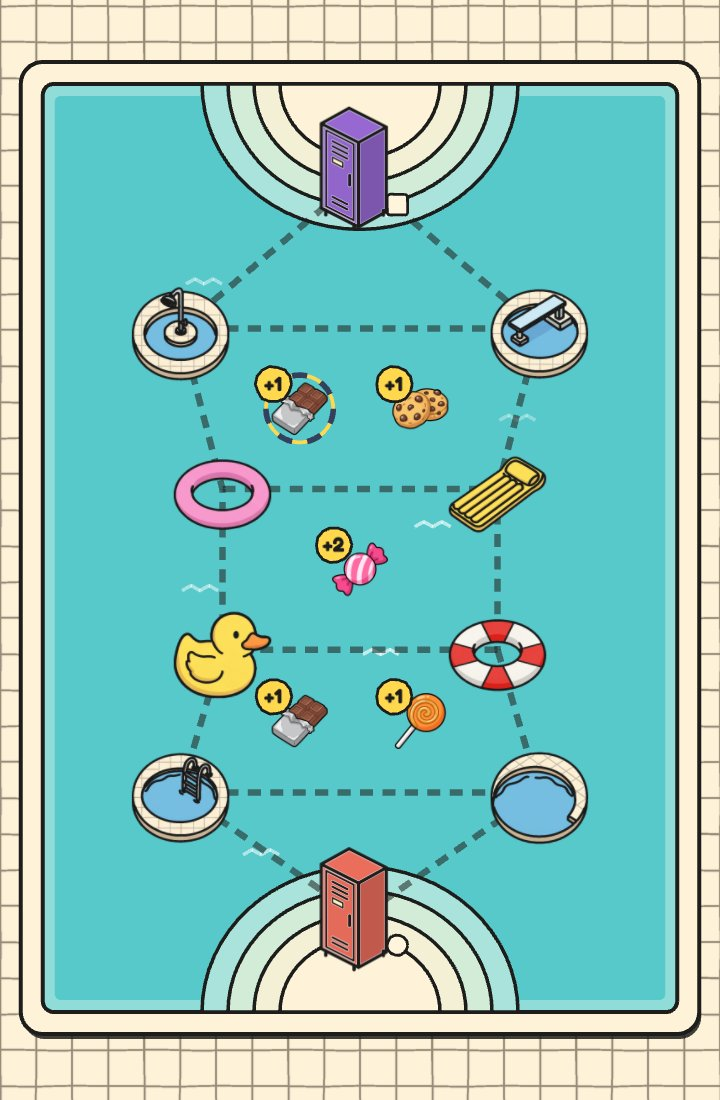
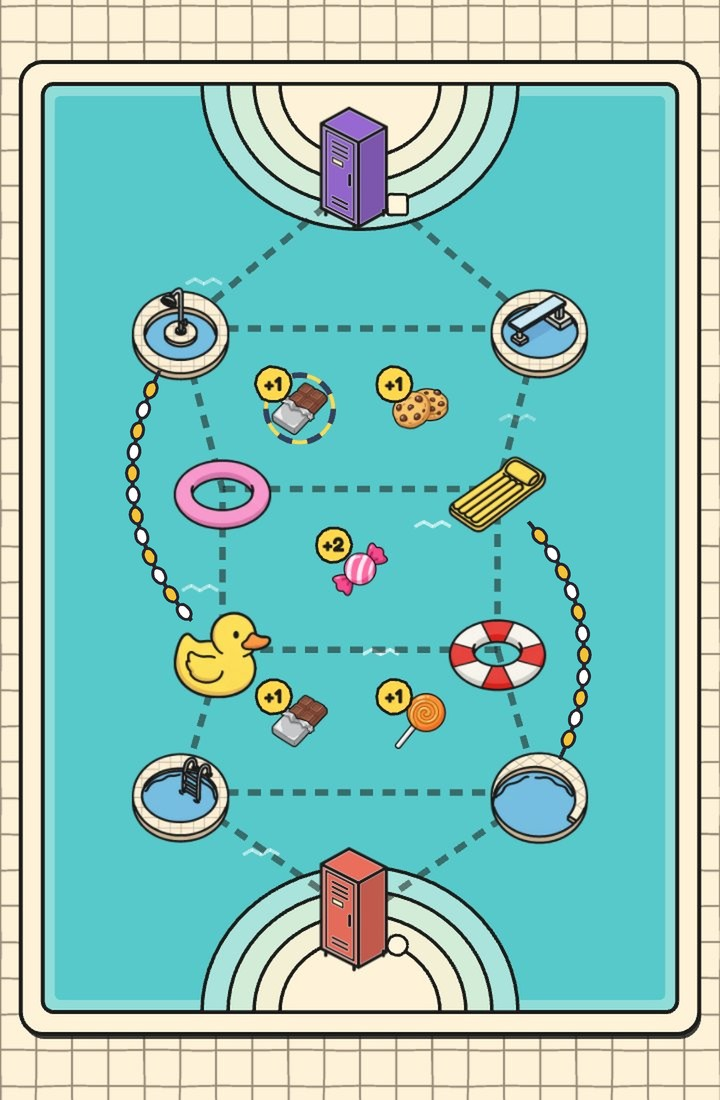
Piscine plus courte : deux raccourcis en lignes d'eau (DK.1–DK.2)
Allées douches→canard et bord→matelas, dessinées en courbe autour du
flotteur comme une ligne d'eau. Aperçu du carrousel, règle de la fiche,
paquet de l'arbitre mis à jour. scripts/audit.ts accepte --plan pour
tester un plan de cour modifié.

Claude-Session: https://claude.ai/code/session_01QntoMP3PeyhXLykr5kKxvo

Changed region(s): [[0.1528, 0.34, 0.275, 0.5873], [0.7333, 0.4636, 0.825, 0.68]]

diff --git a/src/game/scenes/PartieScene.ts b/src/game/scenes/PartieScene.ts
@@ -700,14 +700,134 @@ export class PartieScene extends Phaser.Scene {
     }
   }
 
+  /**
+   * Tracé d'une allée : un segment droit, sauf si elle frôle un autre îlot (raccourcis de la
+   * piscine, DK.1) ; elle s'arrondit alors vers l'extérieur de la cour pour le contourner.
+   */
+  private trajetAllee(a: string, b: string): Point[] {
+    const pa = this.pos(a);
+    const pb = this.pos(b);
+    const dx = pb.x - pa.x;
+    const dy = pb.y - pa.y;
+    const l2 = dx * dx + dy * dy;
+    const frole = this.cour.ilots.some((id) => {
+      if (id === a || id === b) return false;
+      const p = this.pos(id);
+      const t = ((p.x - pa.x) * dx + (p.y - pa.y) * dy) / l2;
+      if (t <= 0.05 || t >= 0.95) return false;
+      return Math.hypot(pa.x + t * dx - p.x, pa.y + t * dy - p.y) < 110;
+    });
+    if (!frole) return [pa, pb];
+    const milieu = { x: (pa.x + pb.x) / 2, y: (pa.y + pb.y) / 2 };
+    const centre = this.cour.ilots.reduce(
+      (c, id) => ({
+        x: c.x + this.pos(id).x / this.cour.ilots.length,
+        y: c.y + this.pos(id).y / this.cour.ilots.length,
+      }),
+      { x: 0, y: 0 },
+    );
+    const l = Math.sqrt(l2);
+    let nx = -dy / l;
+    let ny = dx / l;
+    if (nx * (milieu.x - centre.x) + ny * (milieu.y - centre.y) < 0) {
+      nx = -nx;
+      ny = -ny;
+    }
+    const bombe = l * 0.42;
+    const ctrl = { x: milieu.x + nx * bombe, y: milieu.y + ny * bombe };
+    const pts: Point[] = [];
+    for (let i = 0; i <= 32; i++) {
+      const t = i / 32;
+      const u = 1 - t;
+      pts.push({
+        x: u * u * pa.x + 2 * u * t * ctrl.x + t * t * pb.x,
+        y: u * u * pa.y + 2 * u * t * ctrl.y + t * t * pb.y,
+      });
+    }
+    return pts;
+  }
+
+  /** Pointillés le long d'un tracé (droit ou courbe). */
+  private pointillesTrajet(
+    g: Phaser.GameObjects.Graphics,
+    pts: Point[],
+    trait = 12,
+    espace = 10,
+  ): void {
+    if (pts.length === 2) {
+      this.pointilles(g, pts[0] as Point, pts[1] as Point, trait, espace);
+      return;
+    }
+    let reste = 0;
+    let dessine = true;
+    for (let i = 1; i < pts.length; i++) {
+      let a = pts[i - 1] as Point;
+      const b = pts[i] as Point;
+      let d = Math.hypot(b.x - a.x, b.y - a.y);
+      while (d > 0) {
+        if (reste <= 0) {
+          dessine = !dessine;
+          reste = dessine ? trait : espace;
+        }
+        const pas = Math.min(reste, d);
+        const f = pas / d;
+        const c = { x: a.x + (b.x - a.x) * f, y: a.y + (b.y - a.y) * f };
+        if (dessine) g.lineBetween(a.x, a.y, c.x, c.y);
+        a = c;
+        d -= pas;
+        reste -= pas;
+      }
+    }
+  }
+
+  /** Raccourci de la piscine : une ligne d'eau, corde d'encre et bouchons jaunes et blancs (DK.2). */
+  private ligneDEau(g: Phaser.GameObjects.Graphics, pts: Point[]): void {
+    g.lineStyle(5, COULEURS.encre, 0.8);
+    g.strokePoints(pts as Phaser.Types.Math.Vector2Like[], false);
+    let acc = 0;
+    let k = 0;
+    for (let i = 1; i < pts.length; i++) {
+      const a = pts[i - 1] as Point;
+      const b = pts[i] as Point;
+      const d = Math.hypot(b.x - a.x, b.y - a.y);
+      const ang = Math.atan2(b.y - a.y, b.x - a.x);
+      for (let t = (26 - acc) % 26; t < d; t += 26) {
+        const x = a.x + ((b.x - a.x) * t) / d;
+        const y = a.y + ((b.y - a.y) * t) / d;
+        const r = 11;
+        g.fillStyle(k % 2 === 0 ? 0xf2c23a : 0xffffff, 1);
+        g.lineStyle(4, COULEURS.encre, 1);
+        const c = Math.cos(ang);
+        const sn = Math.sin(ang);
+        const poly: Phaser.Types.Math.Vector2Like[] = [];
+        for (let j = 0; j < 16; j++) {
+          const th = (j / 16) * Math.PI * 2;
+          const ex = Math.cos(th) * r * 1.15;
+          const ey = Math.sin(th) * r * 0.85;
+          poly.push({ x: x + ex * c - ey * sn, y: y + ex * sn + ey * c });
+        }
+        g.fillPoints(poly, true);
+        g.strokePoints(poly, true);
+        k++;
+      }
+      acc = (acc + d) % 26;
+    }
+  }
+
   private dessinerCour(): void {
     const e = this.etat;
     const g = this.ajouter(this.add.graphics());
 
     // Allées en pointillés d'encre, comme tracées à la craie grasse sur le goudron.
     for (const [a, b] of this.cour.allees) {
+      const trajet = this.trajetAllee(a, b);
+      // Les raccourcis de la piscine (allées courbes) sont des lignes d'eau (DK.2).
+      if (trajet.length > 2) {
+        this.ligneDEau(g, trajet);
+        continue;
+      }
       g.lineStyle(7, COULEURS.encre, 0.55);
-      this.pointilles(g, this.pos(a), this.pos(b), 14, 10);
+      this.pointillesTrajet(g, trajet, 14, 10);
     }
     // Sentiers à sens unique (camp scout, DB.2) : des flèches dans le sens où l'on passe.
     for (const [i, depuis] of Object.entries(this.cour.sensUnique)) {
@@ -724,9 +844,17 @@ export class PartieScene extends Phaser.Scene {
       ] as const) {
         g.lineStyle(largeur, couleur, 1);
         for (const [a, c] of segments) {
-          const pa = this.pos(a);
-          const pc = this.pos(c);
-          g.lineBetween(pa.x, pa.y, pc.x, pc.y);
+          const pts = this.trajetAllee(a, c);
+          if (pts.length === 2) {
+            g.lineBetween(
+              (pts[0] as Point).x,
+              (pts[0] as Point).y,
+              (pts[1] as Point).x,
+              (pts[1] as Point).y,
+            );
+          } else {
+            g.strokePoints(pts as Phaser.Types.Math.Vector2Like[], false);
+          }
         }
       }
     }
@@ -2971,7 +3099,7 @@ export class PartieScene extends Phaser.Scene {
       g.lineStyle(14, couleur, 0.85);
       for (const i of a.nouvellesAllees) {
         const [u, v] = this.cour.allees[i] as [string, string];
-        this.pointilles(g, this.pos(u), this.pos(v), 16, 12);
+        this.pointillesTrajet(g, this.trajetAllee(u, v), 16, 12);
       }
       this.tweens.add({ targets: g, alpha: 0.4, duration: 380, yoyo: true, repeat: -1 });
       objets.push(g);

diff --git a/scripts/audit.ts b/scripts/audit.ts
@@ -9,7 +9,7 @@
  *            rondeCourte|deuxChemins|mainPlus2] \
  *           [--sortie audit.jsonl]
  */
-import { appendFileSync, writeFileSync } from 'node:fs';
+import { appendFileSync, readFileSync, writeFileSync } from 'node:fs';
 import { COURS } from '../src/data/boards/index';
 import { chargerCour } from '../src/engine/index';
 import { adversaire, creerPartie, jouer, noeudsConnectes, sommet } from '../src/engine/partie';
@@ -39,7 +39,9 @@ const graine = Number(lireArg('graine', '1'));
 const variante = lireArg('variante', 'aucune');
 const sortie = lireArg('sortie', 'audit.jsonl');
 if (!(a in NIVEAUX) || !(b in NIVEAUX)) throw new Error('niveau inconnu');
-const data = COURS[idCour];
+// --plan fichier.json : essaie un plan de cour modifié (variante de carte), sans toucher au jeu.
+const plan = lireArg('plan', '');
+const data = plan ? JSON.parse(readFileSync(plan, 'utf8')) : COURS[idCour];
 if (!data) throw new Error(`Cour inconnue : ${idCour}`);
 
 const base = chargerCour(data);
@@ -182,7 +184,7 @@ for (let i = 0; i < parties; i++) {
   const perdant = e.fin ? adversaire(e.fin.gagnant) : null;
   const ligne = {
     carte: idCour,
-    variante,
+    variante: plan ? (plan.split('/').pop() as string).replace('.json', '') : variante,
     a,
     b,
     graine: g,

diff --git a/src/data/textes.ts b/src/data/textes.ts
@@ -382,7 +382,7 @@ export const TEXTES = {
         contexte:
           'Sortie piscine ! Deux bandes se disputent les quatre coins et le grand bain sous l’œil de Monsieur Yvon.',
         regle:
-          'Le courant : après chaque tour complet, les quatre bouées du grand bain tournent d’un cran, avec tout ce qu’il y a dessus. Chaque coin se fait et se défait avec elles.',
+          'Le courant : après chaque tour complet, les quatre bouées du grand bain tournent d’un cran, avec tout ce qu’il y a dessus. Chaque coin se fait et se défait avec elles. Deux lignes d’eau font raccourci : des douches au canard, et du bord au matelas.',
       },
       'camp-scout': {
         contexte:

diff --git a/supabase/functions/arbitre/arbitre.js b/supabase/functions/arbitre/arbitre.js
@@ -1013,7 +1013,9 @@ var piscine_default = {
     ["F3", "B2"],
     ["B1", "B2"],
     ["B1", "CabRouge"],
-    ["B2", "CabRouge"]
+    ["B2", "CabRouge"],
+    ["H1", "F4"],
+    ["B2", "F2"]
   ],
   regions: [
     {

diff --git a/docs/decisions.md b/docs/decisions.md
@@ -576,3 +576,10 @@ Demande de Clément : « Je commence à avoir un doute avec le design de mes ali
 - À suivre : les vidéos de pouvoir des Aliens (`public/videos/cartoon/aliens*-*.mp4`) montrent encore l'ancien dessin ; à refaire avec le fil des vidéos.
 - **DT.4 — Bustes de l'écran « Choisis ta bande » : coiffures et mains ne sont plus rognées** (Clément : « Sur les preview aliens les filles ont les cheveux cropés », puis la Rapporteuse des Vers, puis « les mains de la rapporteuse et de la fouine humaine »). Le masque du buste ne coupe plus que sous le débardeur ; sur les côtés il laisse 1,6 fois la case, pour une tête décentrée ou qui se balance et pour les gestes (la Rapporteuse qui pointe, la Populaire qui salue peuvent passer devant le voisin). Pour tenir, un buste se réduit si sa tête, ou son tronc avec les bras qui pendent, dépasse 1,2 fois la case.
 - **DT.5 — Les côtés du buste des Aliens ne sont plus coupés** (Clément : « le corps des aliens semble cropé sur les côtés », « les côtés du buste »). La découpe gardait le tronc à la largeur de la taille et coupait droit bras et épaules : l'écharpe, le sweat et les épaules tombaient, et les coins carrés du bras dépassaient quand il pend. Sous les bras, le tronc garde maintenant toute la largeur du corps ; le bout du bras et les épaules du tronc sont arrondis et cerclés d'encre, ce qui ne laisse plus de coupe visible (`scripts/decoupe.py --tete-encre`, les 8 Aliens et leur tenue miroir).
+
+## Piscine plus courte : deux lignes d'eau (28/11)
+
+Demande de Clément : raccourcir la piscine. Entre IA difficiles, une partie y durait 26 tours (16 sur la cour, 17 au camp) et 17 % finissaient à la sonnerie. Cause mesurée : chaque bande prend ses deux coins, tout près de sa cabane, la partie se bloque à 2 contre 2 et seul le grand bain départage ; et il fallait 4 îlots pour atteindre la cabane d'en face (3 sur la cour). Quatorze plans testés avant de coder (300 parties chacun, `scripts/audit.ts --plan`), règles et pouvoirs inchangés.
+
+- **DK.1 — Deux raccourcis** : allées des douches (H1) au canard (F4) et du bord (B2) au matelas (F2), une par bande, symétriques par demi-tour (variante A, choisie par Clément). Le raccourci arrive sur un flotteur, que le courant déplace : il faut l'emprunter au bon moment. Mesuré : 18 tours en moyenne (médiane 14), 3 % de sonneries, premier joueur 50 %. Le courant reste décisif : sans lui, avec les raccourcis, le premier joueur gagnerait 57 % et la cabane 58 % des parties (43 % avec). Variante B (4 raccourcis) plus courte (14 tours) mais finales moins serrées ; objectif 2, coins à 2, demi-bains : 6 à 9 tours ; sans courant, sans maître-nageur, diagonales, grand bain à 3 : toujours 24 à 26 tours.
+- **DK.2 — Dessinés en lignes d'eau** (choix de Clément parmi craie et ligne d'eau) : une allée qui frôle un autre îlot s'arrondit vers l'extérieur pour le contourner (`trajetAllee`), et se dessine en corde d'encre à bouchons jaunes et blancs. Le chemin de couleur d'une bande et l'aperçu suivent la même courbe. Aperçu du carrousel (`public/cartes/apercus/piscine.jpg`) et règle de la fiche mis à jour. Le paquet de l'arbitre en ligne est reconstruit : à redéployer pour que les parties en ligne connaissent les raccourcis.
